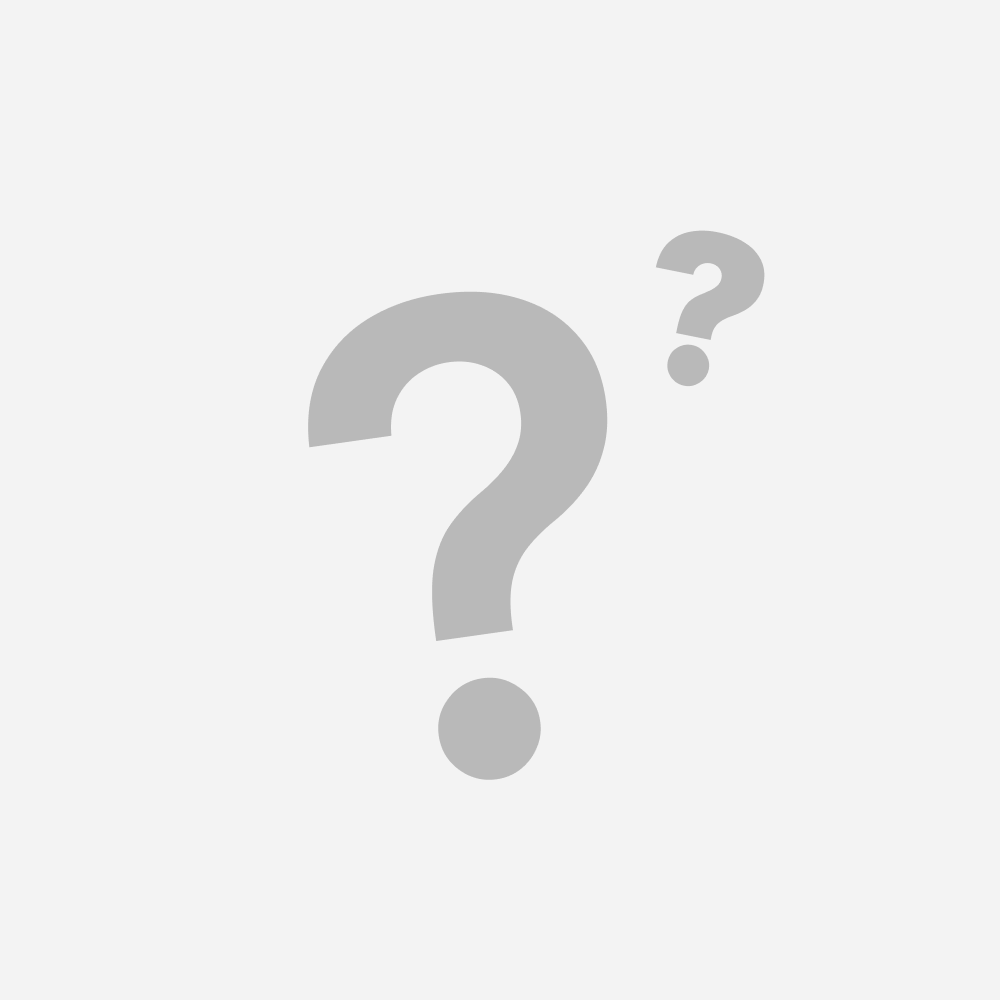
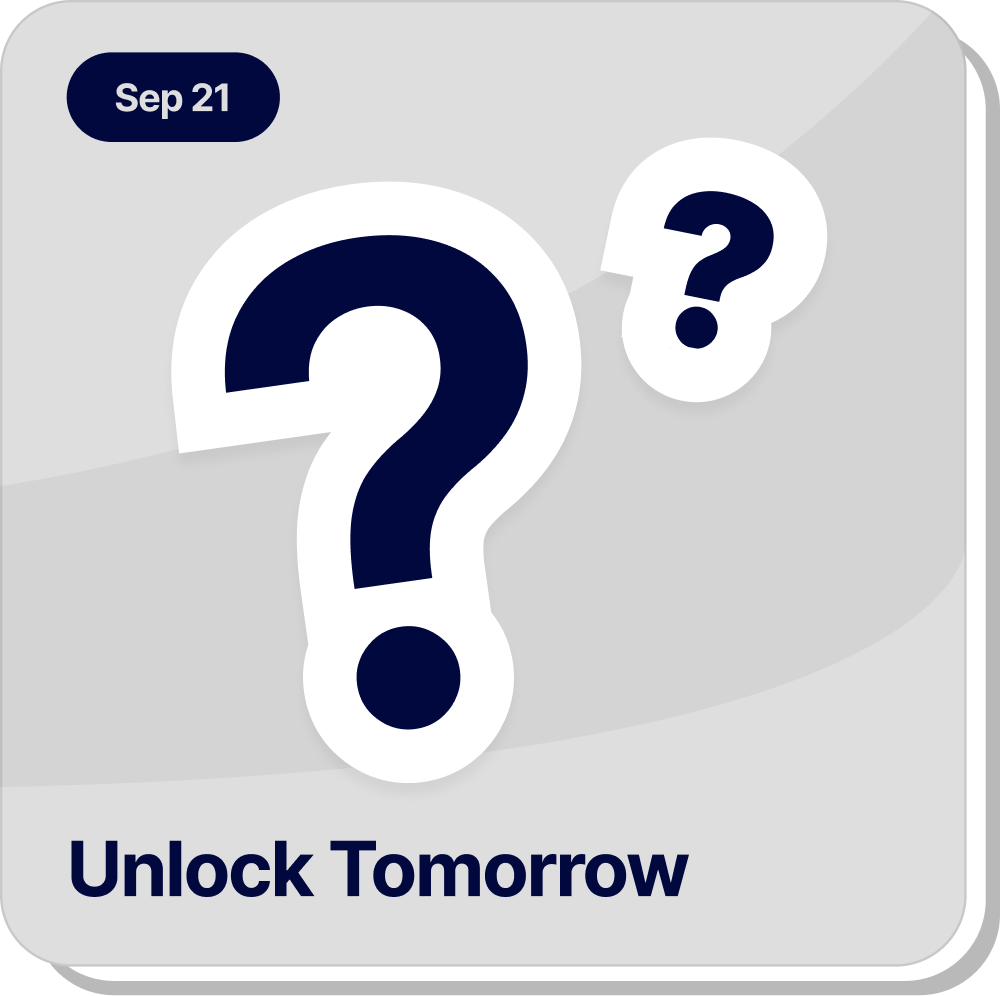
Use full past-activity card art with baked-in titles
Replace tomato/cake/next-up PNGs with complete cards (date + title
in the artwork) and remove the duplicate caption under the carousel.

diff --git a/Sources/HingeForce/ProgressTrackerView.swift b/Sources/HingeForce/ProgressTrackerView.swift
@@ -2,12 +2,11 @@ import SwiftUI
 
 /// Post-cake story log: a three-card timeline (tomato → cake → next-up) with focus scrubbing.
 /// The focused card is always centered on screen; earlier/later cards sit to its left/right.
+/// Date and title are baked into each card PNG — no separate caption under the carousel.
 struct ProgressTrackerView: View {
     @State private var focusedIndex = ProgressMilestone.cake.rawValue
 
     private let milestones = ProgressMilestone.allCases
-    /// Shared by every card so side tiles don’t look rounder/sharper than the center.
-    private static let cornerRadius: CGFloat = 36
     private static let scrubSpring = Animation.spring(response: 0.38, dampingFraction: 0.82)
 
     var body: some View {
@@ -17,9 +16,7 @@ struct ProgressTrackerView: View {
             let buttonGap: CGFloat = 76
             let pitch = focusedSide + buttonGap
             let centerX = geo.size.width / 2
-            // Sit the row a bit above true center so the date label can clear below.
-            let cardY = geo.size.height * 0.46
-            let dateY = cardY + focusedSide * 0.5 + 48
+            let cardY = geo.size.height * 0.5
 
             ZStack {
                 Theme.background
@@ -46,30 +43,17 @@ struct ProgressTrackerView: View {
                     moveFocus(by: 1)
                 }
                 .position(x: centerX + pitch / 2, y: cardY)
-
-                Text(milestones[focusedIndex].dateLabel)
-                    .font(Theme.headingFont)
-                    .foregroundStyle(Theme.title)
-                    .multilineTextAlignment(.center)
-                    .position(x: centerX, y: dateY)
-                    .animation(.easeInOut(duration: 0.22), value: focusedIndex)
-                    .id(focusedIndex)
             }
             .animation(Self.scrubSpring, value: focusedIndex)
         }
     }
 
     private func card(for milestone: ProgressMilestone, side: CGFloat) -> some View {
-        let shape = RoundedRectangle(cornerRadius: Self.cornerRadius, style: .continuous)
-        let inset = milestone.imageInset * (side / 280)
-
-        return Image(nsImage: AppResources.image(milestone.imageName))
+        // Full card art already includes corner radius, date pill, and title.
+        Image(nsImage: AppResources.image(milestone.imageName))
             .resizable()
             .scaledToFit()
-            .padding(inset)
             .frame(width: side, height: side)
-            .background(milestone.background, in: shape)
-            .clipShape(shape)
             .accessibilityLabel(milestone.accessibilityLabel)
     }
 
@@ -104,31 +88,20 @@ enum ProgressMilestone: Int, CaseIterable, Identifiable {
         }
     }
 
-    /// All three milestone PNGs are full square tiles.
-    var imageInset: CGFloat { 0 }
-
-    var background: Color {
+    /// Titles baked into the card art (for a11y / tests — not drawn separately).
+    var title: String {
         switch self {
-        case .tomato: return Theme.tomatoCard
-        case .cake: return Theme.cakeCard
-        case .nextUp: return Theme.nextCard
-        }
-    }
-
-    /// Tomato is the day before cake; next-up stays open-ended in product voice.
-    var dateLabel: String {
-        switch self {
-        case .tomato: return "September 19"
-        case .cake: return "September 20"
-        case .nextUp: return "Unlock tomorrow"
+        case .tomato: return "Grocery Day"
+        case .cake: return "It’s Celebratin’ Time"
+        case .nextUp: return "Unlock Tomorrow"
         }
     }
 
     var accessibilityLabel: String {
         switch self {
-        case .tomato: return "Tomato lesson, September 19"
-        case .cake: return "Cake lesson, September 20"
-        case .nextUp: return "Next lesson, Unlock tomorrow"
+        case .tomato: return "Grocery Day, Sep 19"
+        case .cake: return "It’s Celebratin’ Time, Sep 20"
+        case .nextUp: return "Unlock Tomorrow, Sep 21"
         }
     }
 }

diff --git a/Tests/HingeForceTests/ProgressTrackerTests.swift b/Tests/HingeForceTests/ProgressTrackerTests.swift
@@ -6,15 +6,15 @@ final class ProgressTrackerTests: XCTestCase {
         XCTAssertEqual(ProgressMilestone.allCases.map(\.imageName), ["tomato", "cake", "next-up"])
     }
 
-    func testCakeDateIsSeptember20() {
-        XCTAssertEqual(ProgressMilestone.cake.dateLabel, "September 20")
+    func testCardTitlesMatchBakedInArt() {
+        XCTAssertEqual(ProgressMilestone.tomato.title, "Grocery Day")
+        XCTAssertEqual(ProgressMilestone.cake.title, "It’s Celebratin’ Time")
+        XCTAssertEqual(ProgressMilestone.nextUp.title, "Unlock Tomorrow")
     }
 
-    func testTomatoIsDayBeforeCake() {
-        XCTAssertEqual(ProgressMilestone.tomato.dateLabel, "September 19")
-    }
-
-    func testNextUpUsesUnlockTomorrow() {
-        XCTAssertEqual(ProgressMilestone.nextUp.dateLabel, "Unlock tomorrow")
+    func testAccessibilityLabelsIncludeTitleAndDate() {
+        XCTAssertEqual(ProgressMilestone.tomato.accessibilityLabel, "Grocery Day, Sep 19")
+        XCTAssertEqual(ProgressMilestone.cake.accessibilityLabel, "It’s Celebratin’ Time, Sep 20")
+        XCTAssertEqual(ProgressMilestone.nextUp.accessibilityLabel, "Unlock Tomorrow, Sep 21")
     }
 }
